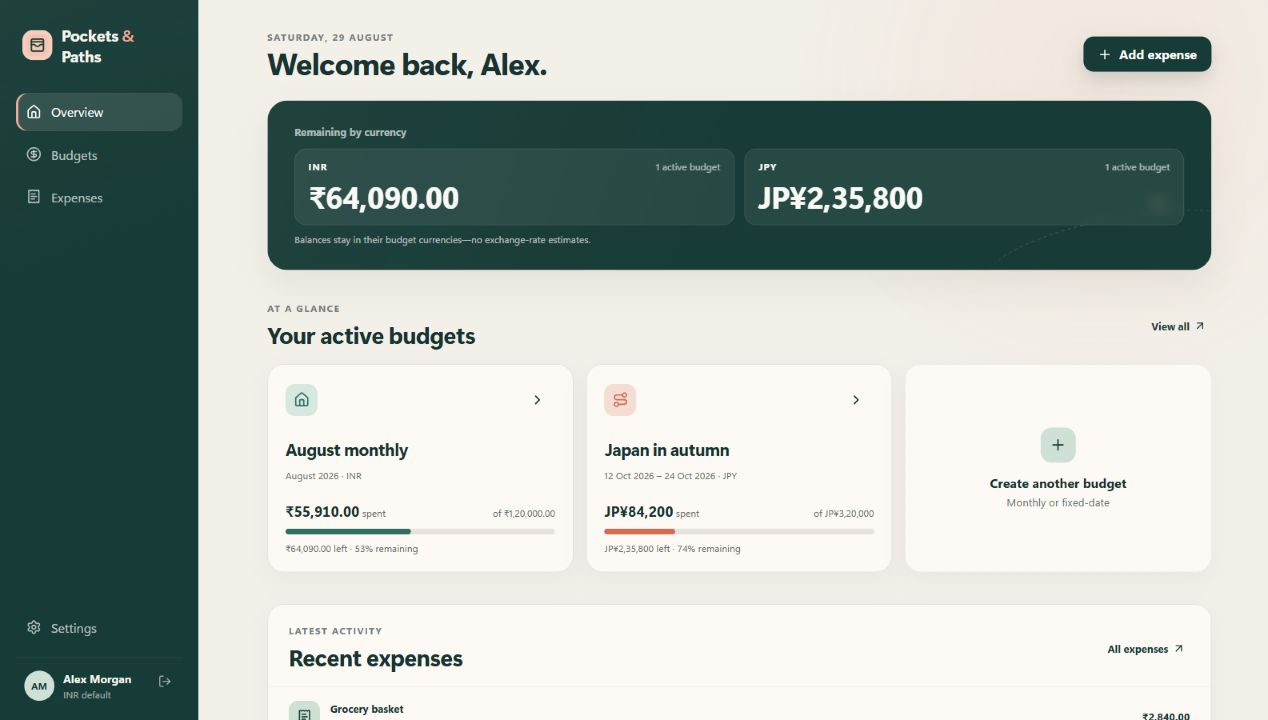
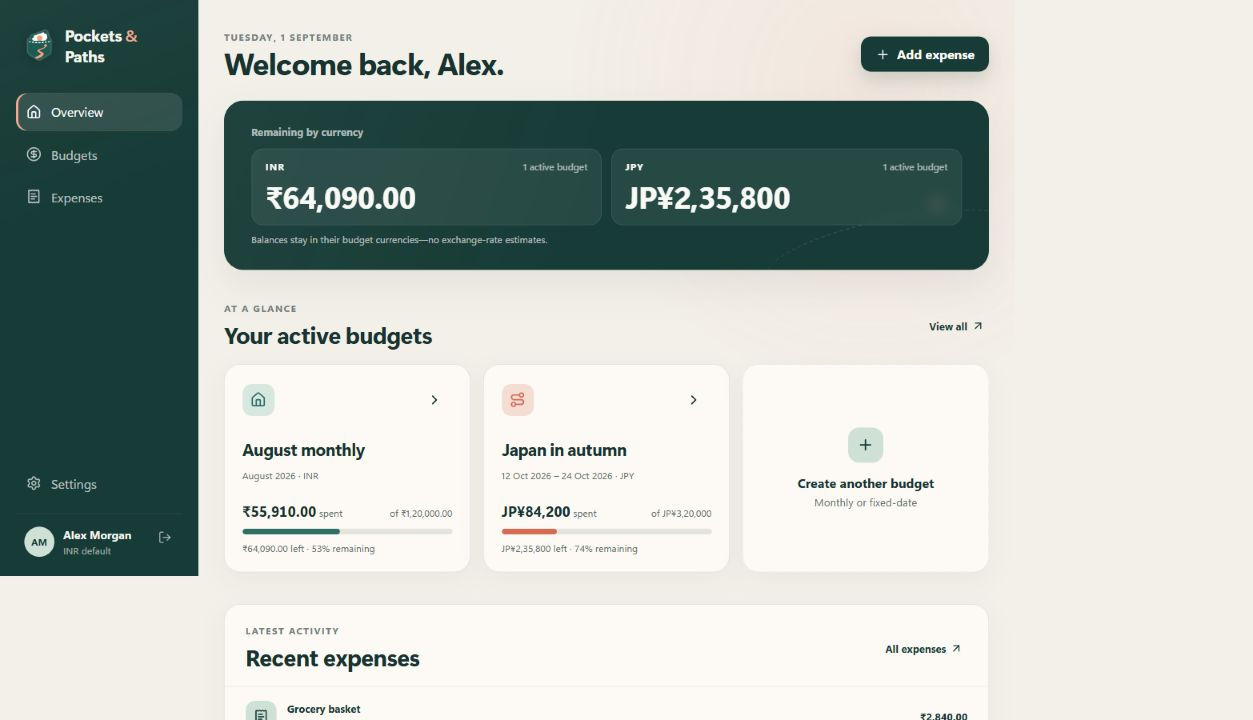
Updated README
-> Added/updated screeshots
-> Added info to access the app in the same local network

diff --git a/src/styles/_shell.scss b/src/styles/_shell.scss
@@ -47,6 +47,16 @@
   }
 }
 
+.sidebar .brand__mark {
+  width: 42px;
+  height: 42px;
+
+  img {
+    filter: brightness(1.55) saturate(0.82) drop-shadow(0 0 1px rgba(239, 247, 244, 0.72))
+      drop-shadow(0 3px 7px rgba(4, 25, 22, 0.32));
+  }
+}
+
 .side-nav {
   display: grid;
   gap: 7px;

diff --git a/README.md b/README.md
@@ -13,6 +13,10 @@ Pockets & Paths lets one person run a recurring monthly plan alongside any numbe
 
 ![Pockets & Paths dashboard showing concurrent monthly and temporary budgets](docs/images/dashboard.png)
 
+<p align="center">
+  <img src="docs/images/dashboard-mobile.png" alt="Pockets & Paths dashboard on a mobile screen" width="360" />
+</p>
+
 ## Product highlights
 
 - Recurring monthly and fixed-date temporary budgets can be active together.
@@ -49,7 +53,9 @@ npm ci
 npm run dev
 ```
 
-Open `http://127.0.0.1:4173`. The development command applies pending D1 migrations before starting. Sign in with `demo@pocketsandpaths.app` and password `pathfinder`; the Worker seeds a realistic monthly budget plus a temporary Japan budget for each isolated browser session.
+Open `http://127.0.0.1:4173` on the development computer. The development command applies pending D1 migrations before starting. Sign in with `demo@pocketsandpaths.app` and password `pathfinder`; the Worker seeds a realistic monthly budget plus a temporary Japan budget for each isolated browser session.
+
+To preview the app from another device on the same trusted Wi-Fi network, open the `Network` URL printed by Vite (for example, `http://192.168.x.x:4173`). If it is unavailable, allow Node.js through the computer's firewall for private networks. The local IP address may change between connections.
 
 Seed dates are generated relative to the current month, so a newly reset demo always opens with a current monthly plan and an upcoming temporary journey.
 
